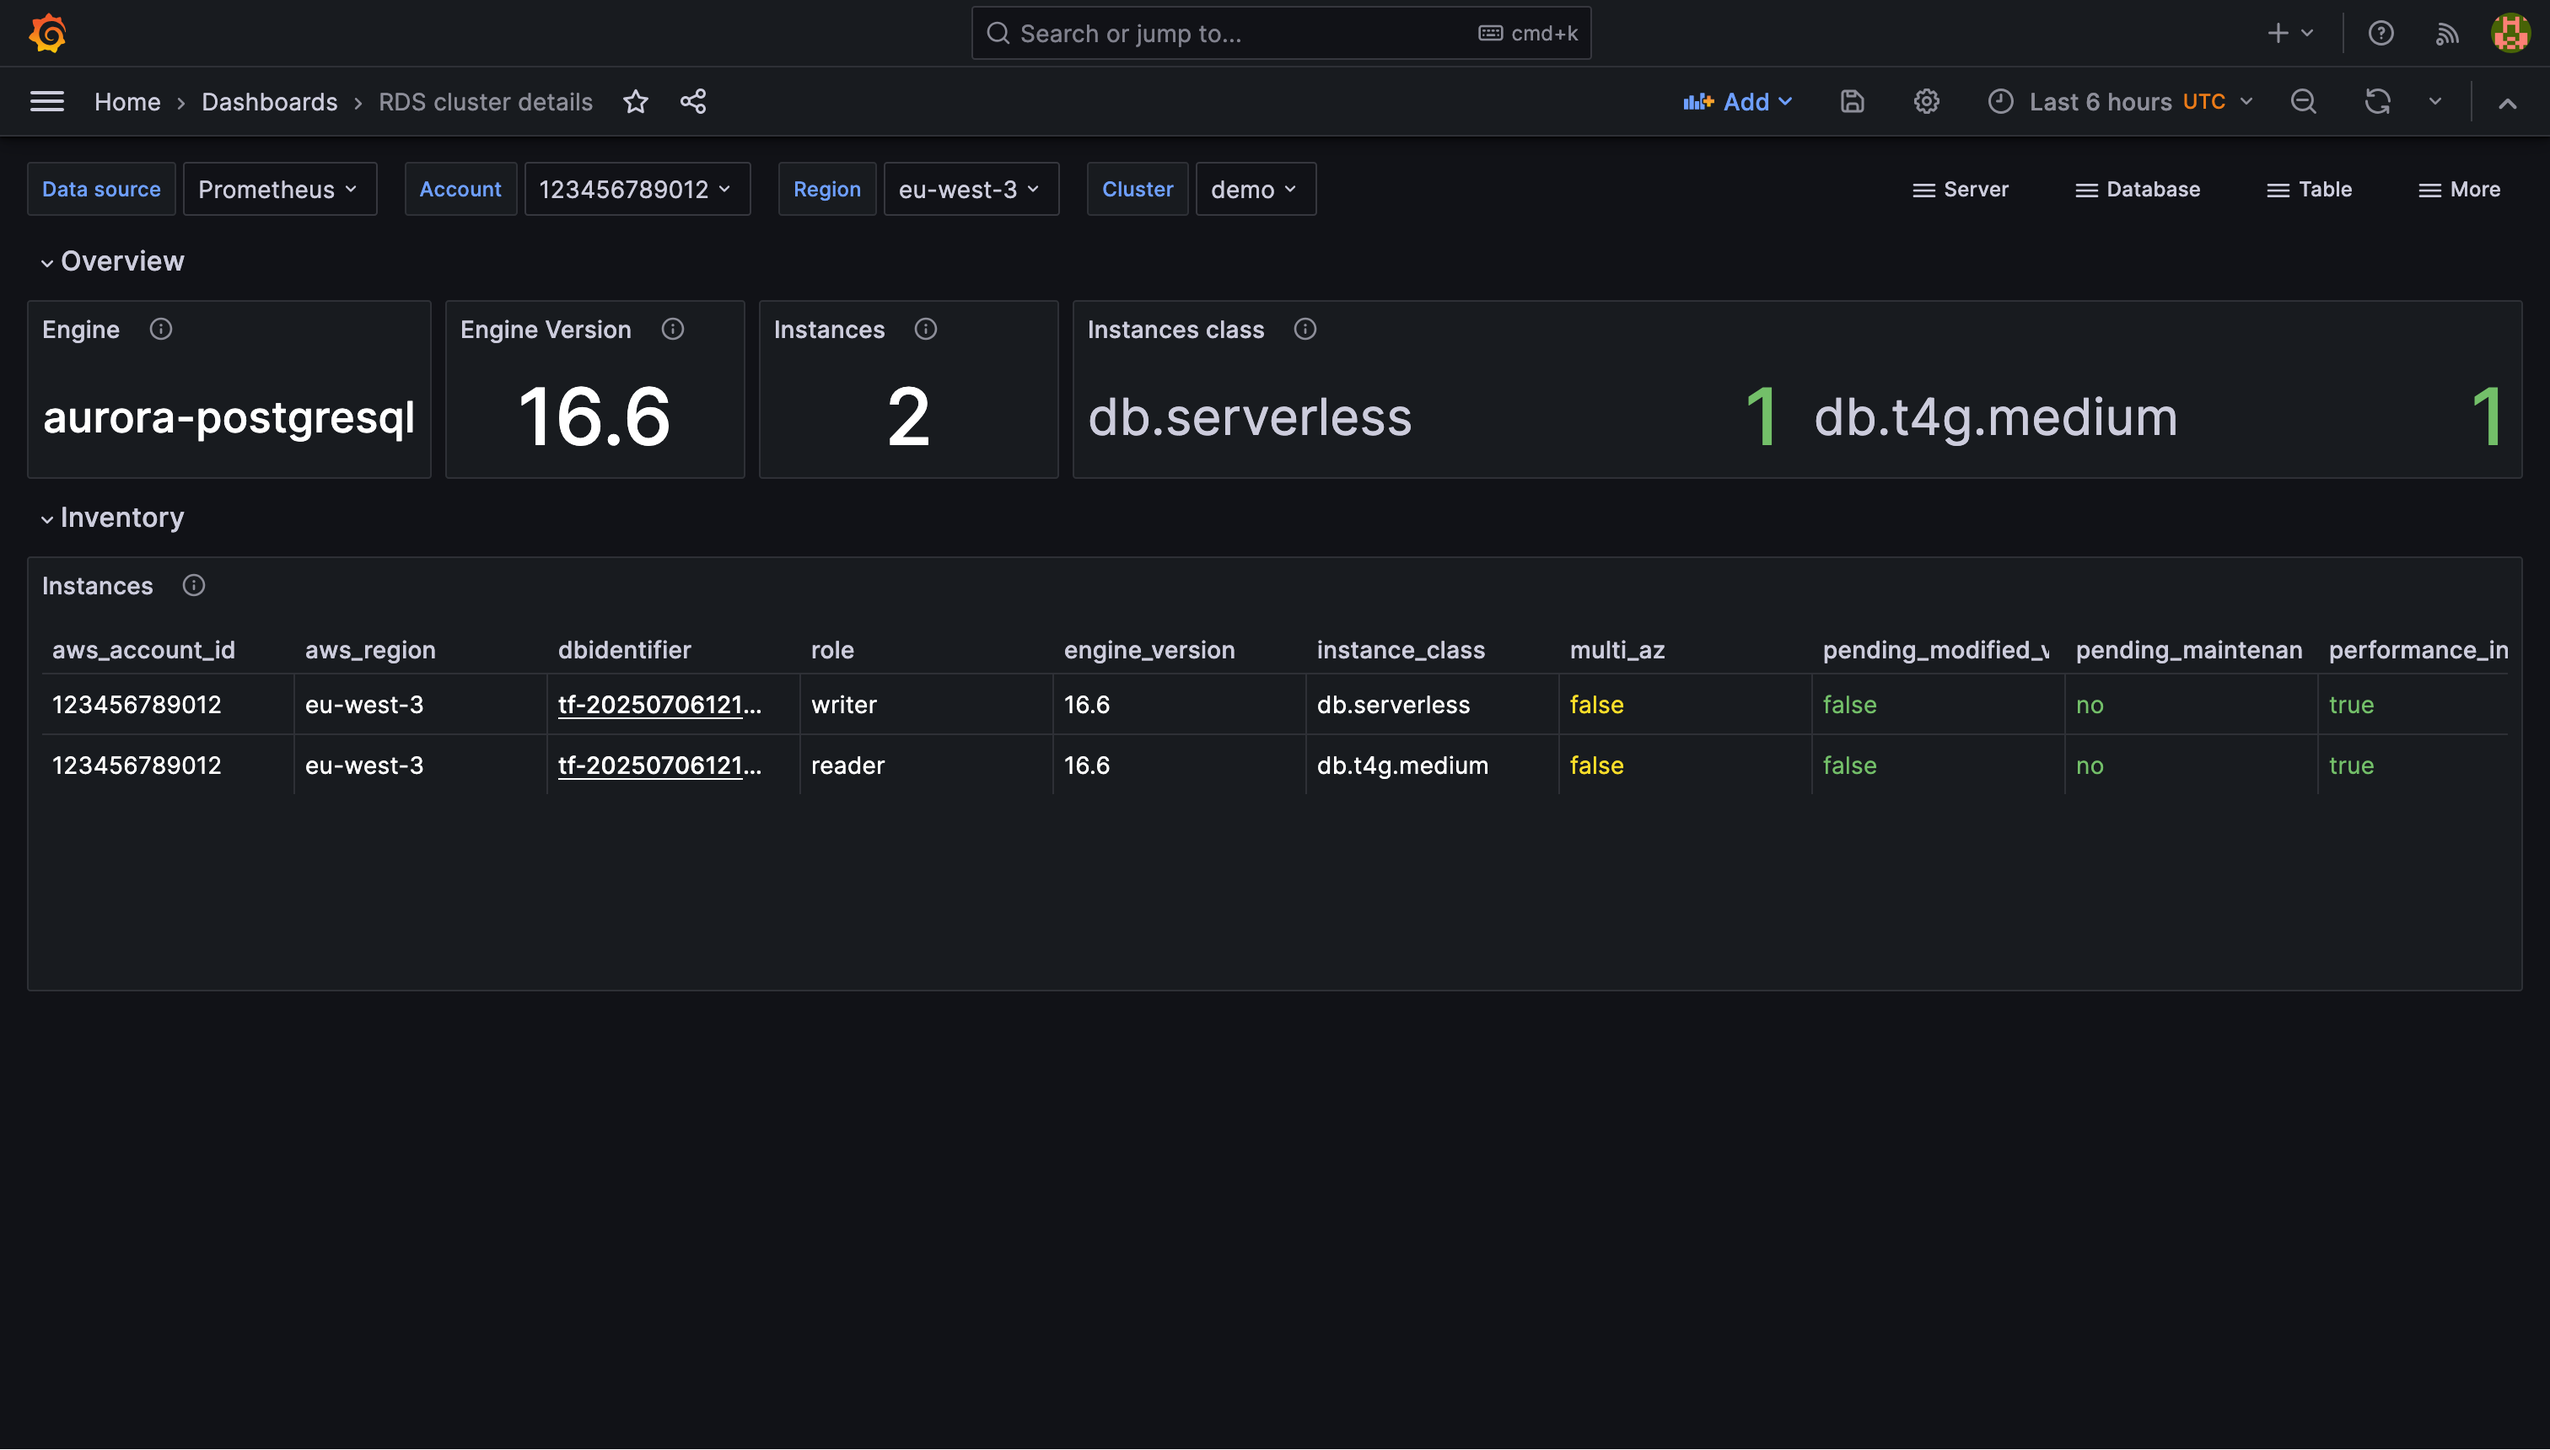
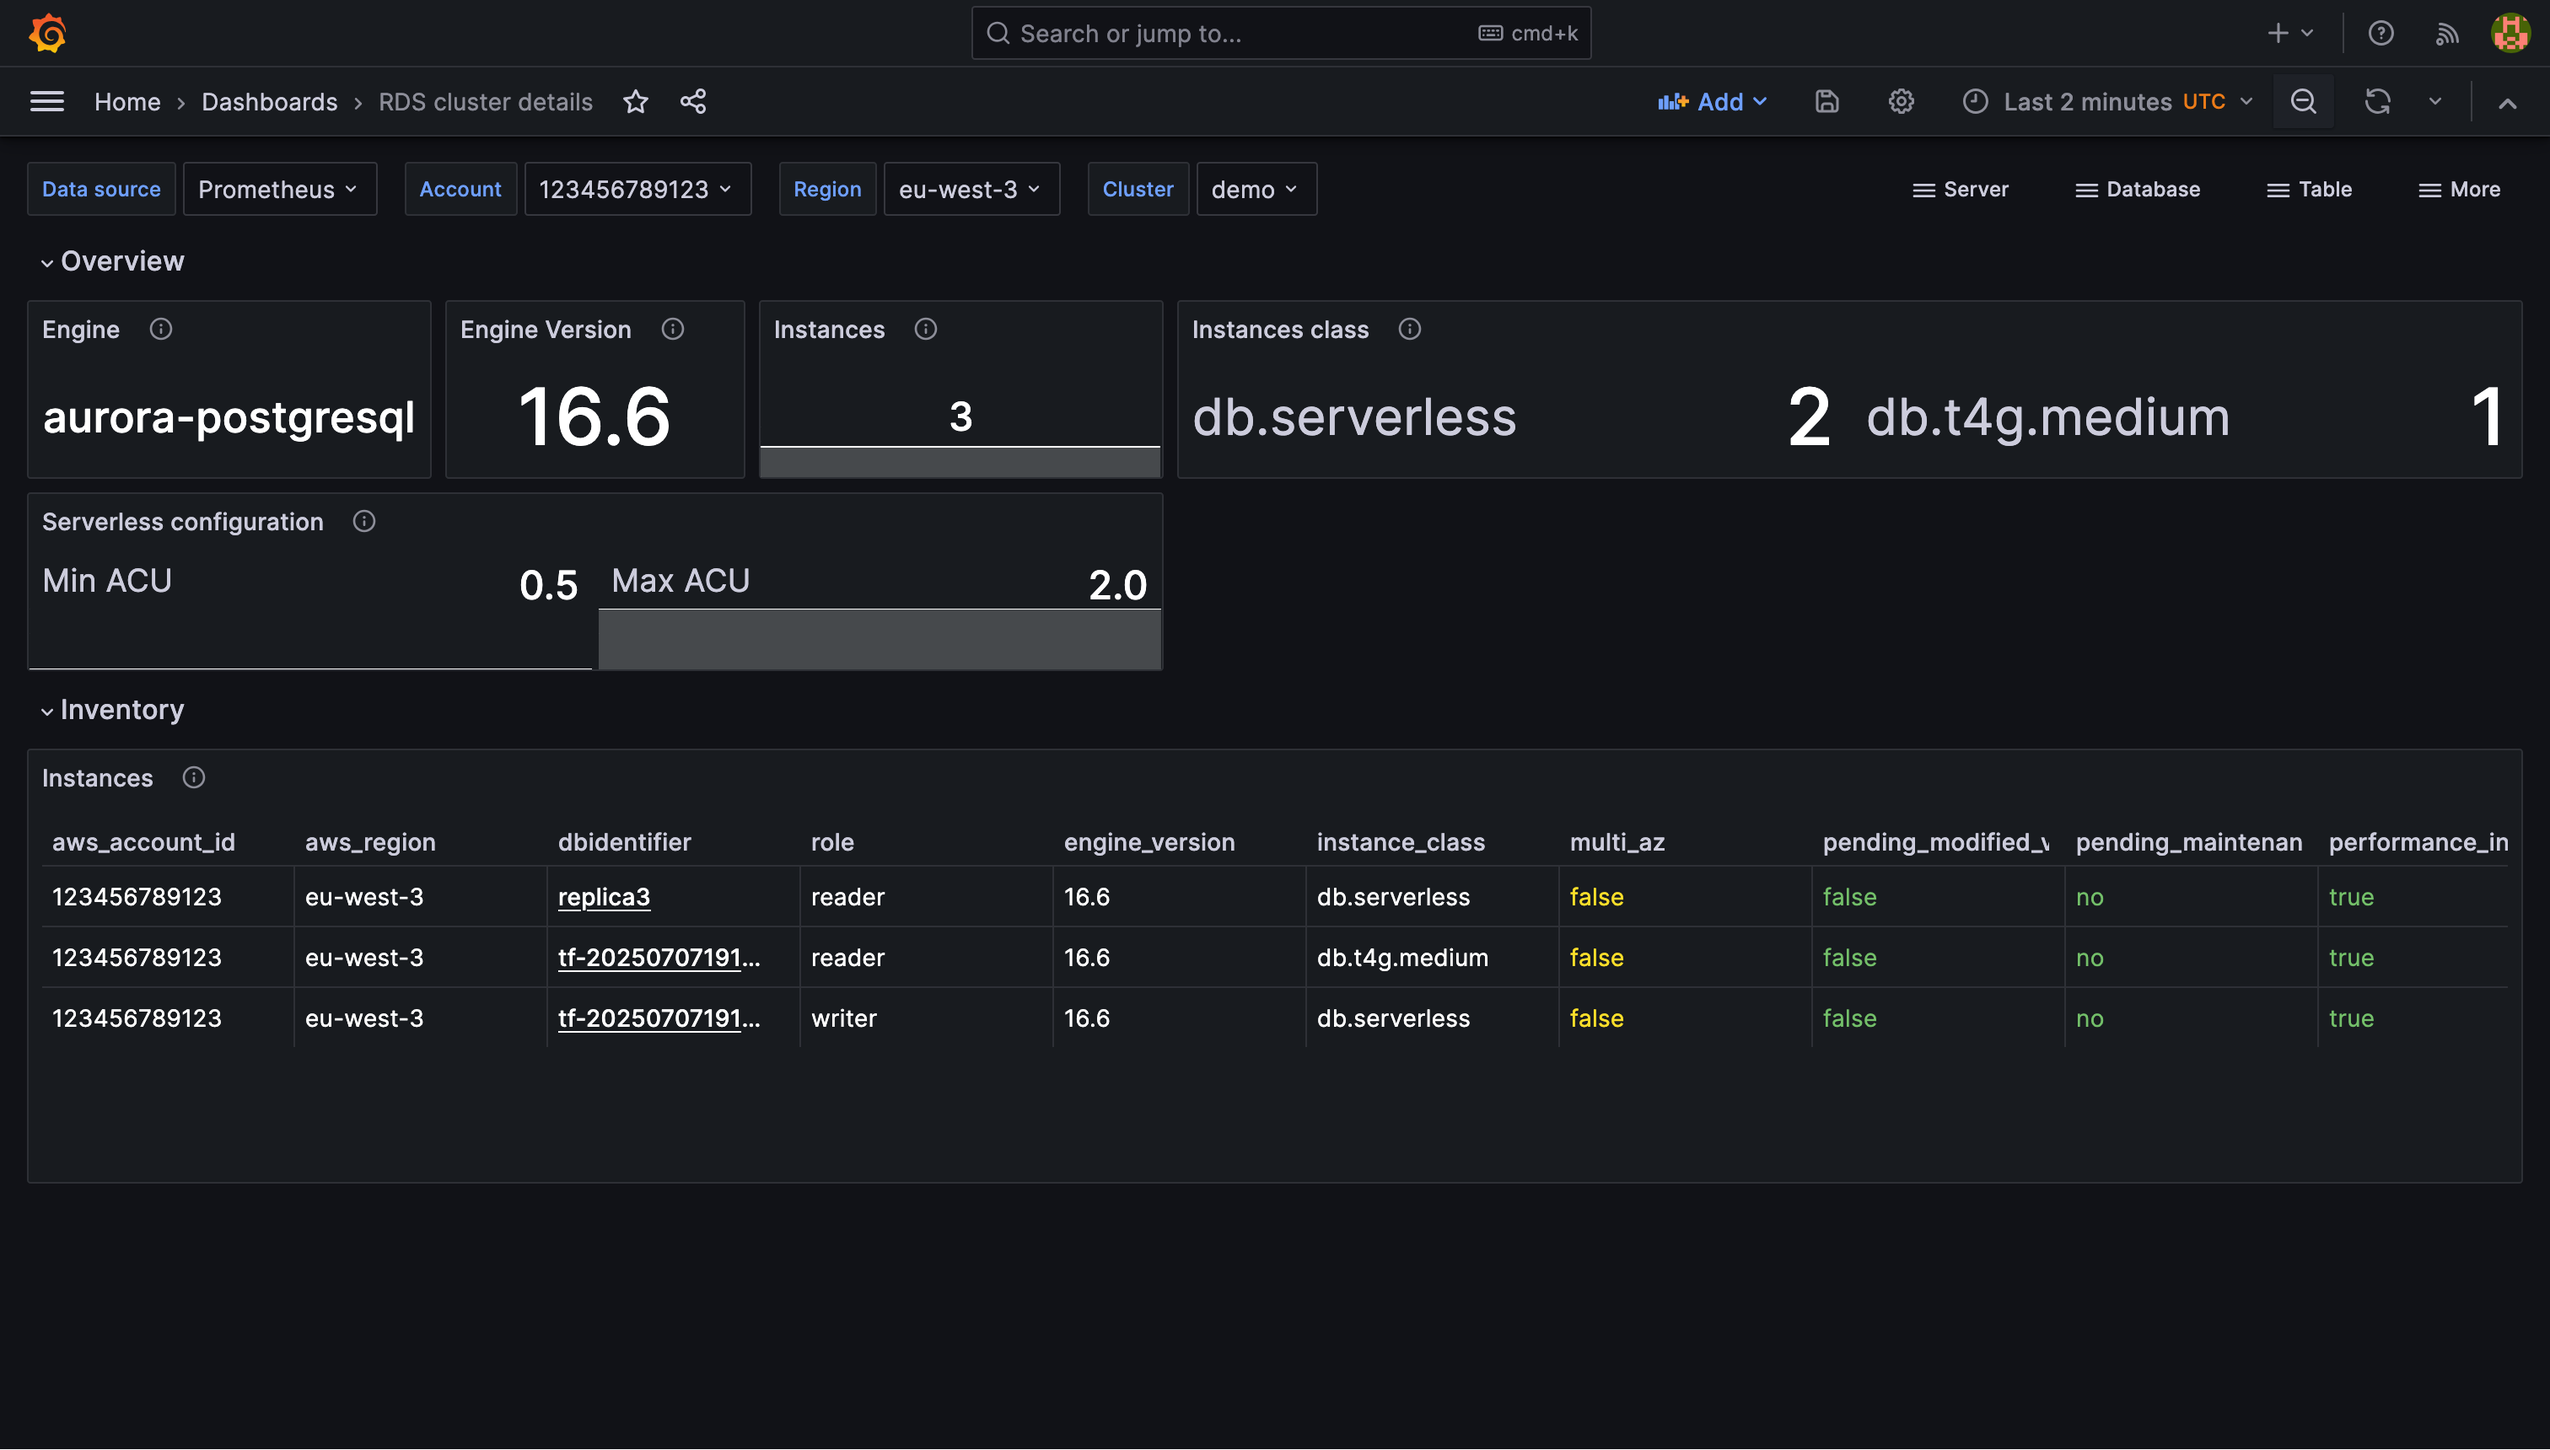
chore(grafana): Add Serverless information in cluster view

diff --git a/internal/app/cloudwatch/rds.go b/internal/app/cloudwatch/rds.go
@@ -27,22 +27,23 @@ type CloudWatchMetrics struct {
 }
 
 type RdsMetrics struct {
-	CPUUtilization            *float64
-	DBLoad                    *float64
-	DBLoadCPU                 *float64
-	DBLoadNonCPU              *float64
-	DatabaseConnections       *float64
-	FreeStorageSpace          *float64
-	FreeableMemory            *float64
-	MaximumUsedTransactionIDs *float64
-	ReadIOPS                  *float64
-	ReadThroughput            *float64
-	ReplicaLag                *float64
-	ReplicationSlotDiskUsage  *float64
-	SwapUsage                 *float64
-	TransactionLogsDiskUsage  *float64
-	WriteIOPS                 *float64
-	WriteThroughput           *float64
+	CPUUtilization             *float64
+	DBLoad                     *float64
+	DBLoadCPU                  *float64
+	DBLoadNonCPU               *float64
+	DatabaseConnections        *float64
+	FreeStorageSpace           *float64
+	FreeableMemory             *float64
+	MaximumUsedTransactionIDs  *float64
+	ReadIOPS                   *float64
+	ReadThroughput             *float64
+	ReplicaLag                 *float64
+	ReplicationSlotDiskUsage   *float64
+	SwapUsage                  *float64
+	TransactionLogsDiskUsage   *float64
+	ServerlessDatabaseCapacity *float64
+	WriteIOPS                  *float64
+	WriteThroughput            *float64
 }
 
 func (m *RdsMetrics) Update(field string, value float64) error {
@@ -79,6 +80,8 @@ func (m *RdsMetrics) Update(field string, value float64) error {
 		m.WriteThroughput = &value
 	case "TransactionLogsDiskUsage":
 		m.TransactionLogsDiskUsage = &value
+	case "ServerlessDatabaseCapacity":
+		m.ServerlessDatabaseCapacity = &value
 	default:
 		return fmt.Errorf("can't process '%s' metrics: %w", field, errUnknownMetric)
 	}
@@ -87,8 +90,8 @@ func (m *RdsMetrics) Update(field string, value float64) error {
 }
 
 // getCloudWatchMetricsName returns names of Cloudwatch metrics to collect
-func getCloudWatchMetricsName() [16]string {
-	return [16]string{
+func getCloudWatchMetricsName() [17]string {
+	return [17]string{
 		"CPUUtilization",
 		"DBLoad",
 		"DBLoadCPU",
@@ -102,6 +105,7 @@ func getCloudWatchMetricsName() [16]string {
 		"ReplicaLag",
 		"ReplicationSlotDiskUsage",
 		"SwapUsage",
+		"ServerlessDatabaseCapacity",
 		"TransactionLogsDiskUsage",
 		"WriteIOPS",
 		"WriteThroughput",

diff --git a/internal/app/exporter/exporter.go b/internal/app/exporter/exporter.go
@@ -118,6 +118,7 @@ type rdsCollector struct {
 	usageAllocatedStorage       *prometheus.Desc
 	usageDBInstances            *prometheus.Desc
 	usageManualSnapshots        *prometheus.Desc
+	serverlessDatabaseCapacity  *prometheus.Desc
 	exporterBuildInformation    *prometheus.Desc
 	transactionLogsDiskUsage    *prometheus.Desc
 	certificateValidTill        *prometheus.Desc
@@ -329,6 +330,10 @@ func NewCollector(logger slog.Logger, collectorConfiguration Configuration, awsA
 			"Manual snapshots count",
 			[]string{"aws_account_id", "aws_region"}, nil,
 		),
+		serverlessDatabaseCapacity: prometheus.NewDesc("rds_serverless_instance_acu_average",
+			"Current ACU of the Aurora Serverless instance",
+			[]string{"aws_account_id", "aws_region", "dbidentifier"}, nil,
+		),
 	}
 }
 
@@ -377,6 +382,7 @@ func (c *rdsCollector) Describe(ch chan<- *prometheus.Desc) {
 	ch <- c.usageAllocatedStorage
 	ch <- c.usageDBInstances
 	ch <- c.usageManualSnapshots
+	ch <- c.serverlessDatabaseCapacity
 	ch <- c.writeIOPS
 	ch <- c.writeThroughput
 }
@@ -732,6 +738,10 @@ func (c *rdsCollector) Collect(ch chan<- prometheus.Metric) {
 
 		if instance.DBLoadNonCPU != nil {
 			ch <- prometheus.MustNewConstMetric(c.dBLoadNonCPU, prometheus.GaugeValue, *instance.DBLoadNonCPU, c.awsAccountID, c.awsRegion, dbidentifier)
+		}
+
+		if instance.ServerlessDatabaseCapacity != nil {
+			ch <- prometheus.MustNewConstMetric(c.serverlessDatabaseCapacity, prometheus.GaugeValue, *instance.ServerlessDatabaseCapacity, c.awsAccountID, c.awsRegion, dbidentifier)
 		}
 	}
 

diff --git a/README.md b/README.md
@@ -50,6 +50,7 @@ It collects key metrics about:
 | rds_cluster_info | `aws_account_id`, `aws_region`, `cluster_identifier`, `cluster_resource_id`, `engine`, `engine_version`, `arn` | RDS cluster information |
 | rds_cluster_acu_max_average | `aws_account_id`, `aws_region`, `cluster_identifier` | Maximum number of ACU |
 | rds_cluster_acu_min_average | `aws_account_id`, `aws_region`, `cluster_identifier` | Minimum number of ACU |
+| rds_cluster_info | `aws_account_id`, `aws_region`, `cluster_identifier`, `cluster_resource_id`, `engine`, `engine_version`, `arn` | RDS cluster information |
 | rds_cpu_usage_percent_average | `aws_account_id`, `aws_region`, `dbidentifier` | Instance CPU used |
 | rds_database_connections_average | `aws_account_id`, `aws_region`, `dbidentifier` | The number of client network connections to the database instance |
 | rds_dbload_average | `aws_account_id`, `aws_region`, `dbidentifier` | Number of active sessions for the DB engine |
@@ -81,6 +82,7 @@ It collects key metrics about:
 | rds_read_throughput_bytes | `aws_account_id`, `aws_region`, `dbidentifier` | Average number of bytes read from disk per second |
 | rds_replica_lag_seconds | `aws_account_id`, `aws_region`, `dbidentifier` | For read replica configurations, the amount of time a read replica DB instance lags behind the source DB instance. Applies to MariaDB, Microsoft SQL Server, MySQL, Oracle, and PostgreSQL read replicas |
 | rds_replication_slot_disk_usage_bytes | `aws_account_id`, `aws_region`, `dbidentifier` | Disk space used by replication slot files. Applies to PostgreSQL |
+| rds_serverless_instance_acu_average | `aws_account_id`, `aws_region`, `dbidentifier` | Current ACU of the Aurora Serverless instance |
 | rds_swap_usage_bytes | `aws_account_id`, `aws_region`, `dbidentifier` | Amount of swap space used on the DB instance. This metric is not available for SQL Server |
 | rds_transaction_logs_disk_usage_bytes | `aws_account_id`, `aws_region`, `dbidentifier` | Disk space used by transaction logs (only on PostgreSQL) |
 | rds_usage_allocated_storage_bytes | `aws_account_id`, `aws_region` | Total storage used by AWS RDS instances |
